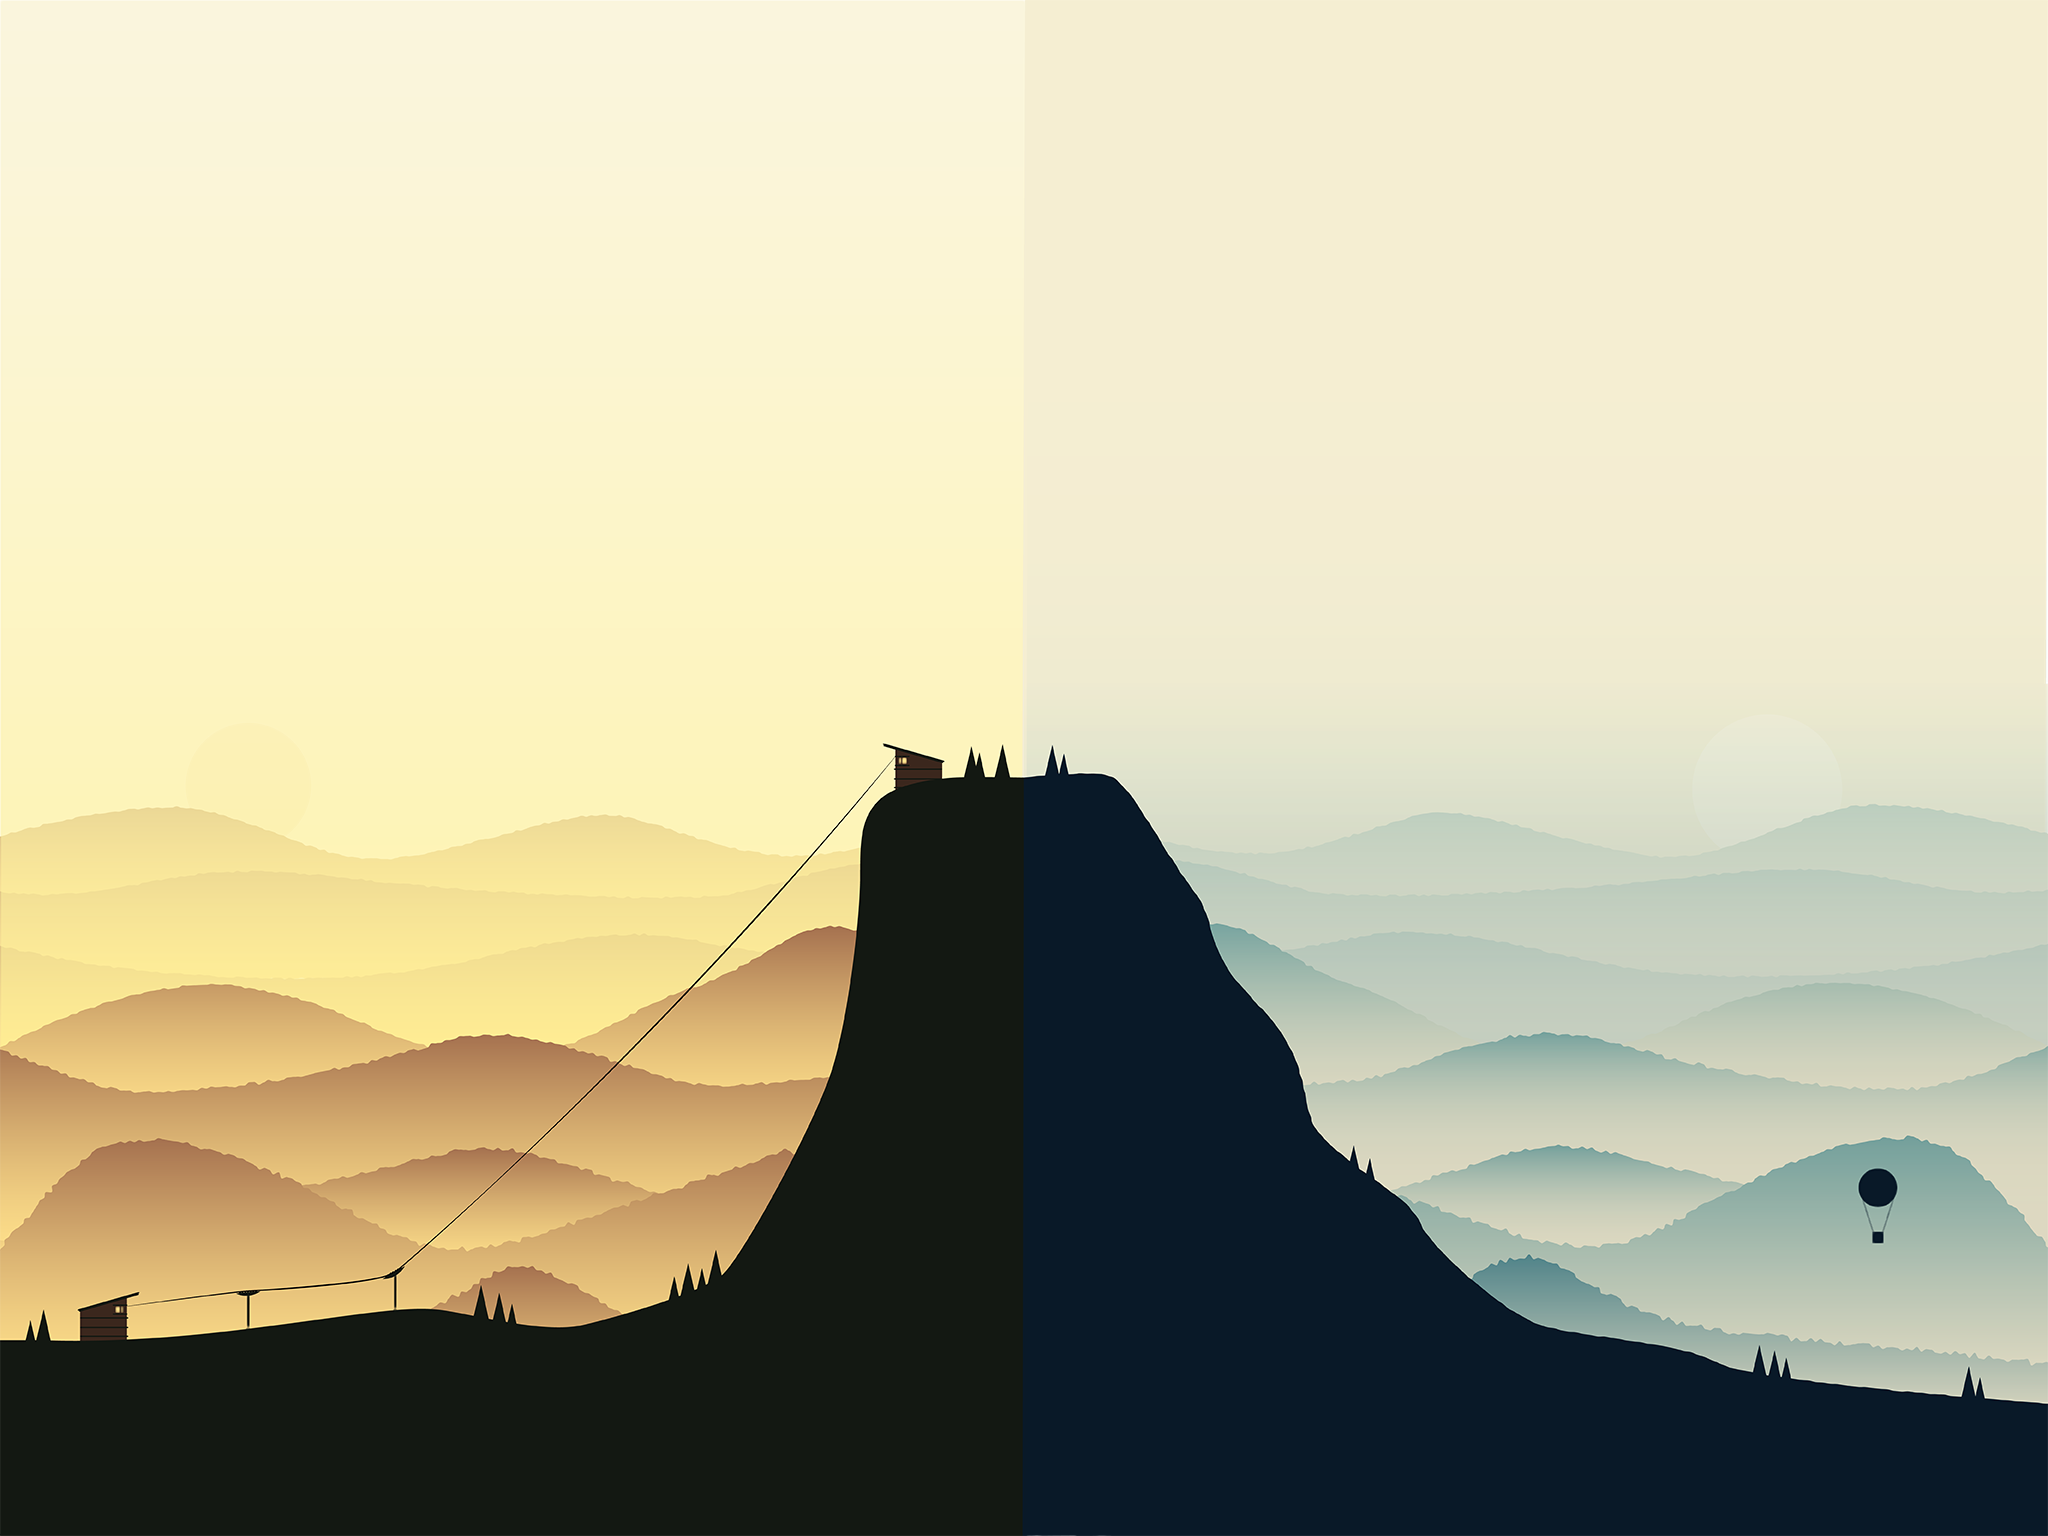
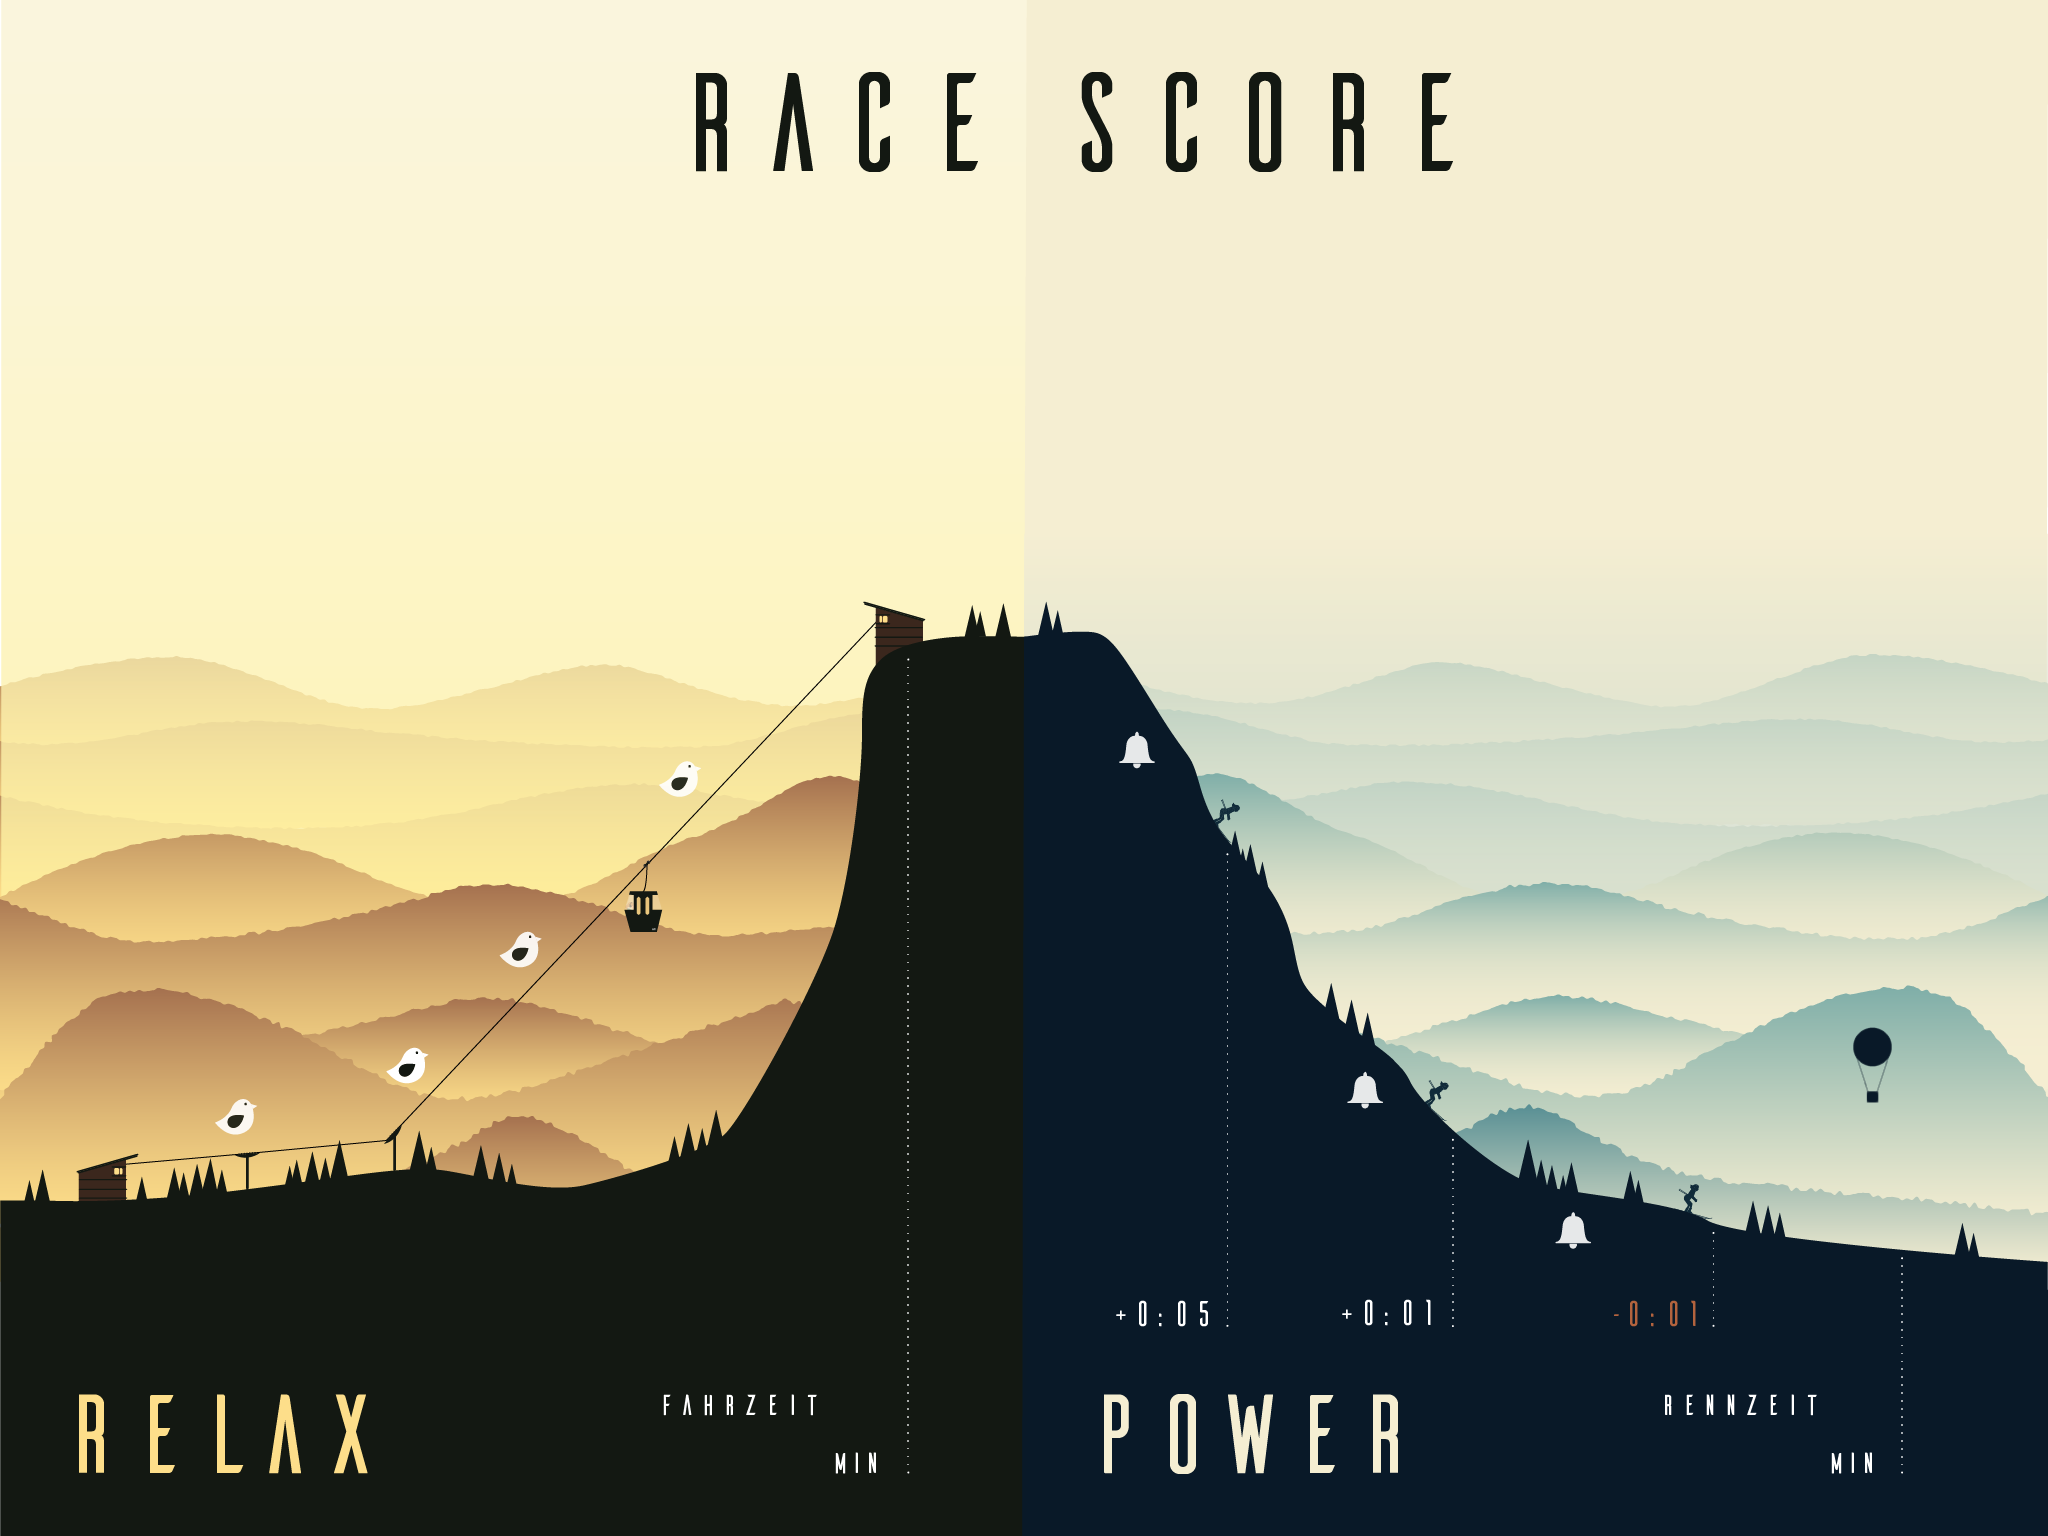
changed background

diff --git a/public/neuroracer/dashboard.js b/public/neuroracer/dashboard.js
@@ -14,10 +14,10 @@ function drawDashboardVis() {
 	translate(100, 0);
 	//RECORD SECTION
 
-	fill('black');
-	textSize(H1);
+	//fill('black');
+	//textSize(H1);
 	textFont(myfont);
-	text('PRERACE', 0, 0);
+	//text('PRERACE', 0, 0);
 
 	textSize(H2)
 	fill(TEXTFILL);
@@ -56,7 +56,7 @@ function drawDashboardVis() {
 
 	fill('white');
 	textSize(30);
-	text(timeresult, 0, 625);	
+	text(timeresult, 227, 636.5);	
 
 
 	//race ranking
@@ -64,9 +64,9 @@ function drawDashboardVis() {
 	translate(512, 0);
 	//RECORD SECTION
 
-	fill('black');
+	/*fill('black');
 	textSize(H1);
-	text('RACE', 0, 0);
+	text('RACE', 0, 0);*/
 
 	textSize(H2)
 	fill(TEXTFILL);
@@ -105,7 +105,7 @@ function drawDashboardVis() {
 
 	fill('white');
 	textSize(30);
-	text('1:40', 0, 625);
+	text('01:40', 215, 636.5);
 
 	noLoop();
 

diff --git a/public/neuroracer/sketch.js b/public/neuroracer/sketch.js
@@ -125,10 +125,10 @@ function setup() {
   createCanvas(1024, 768);
 
   //use this line to use dummy data (ideal for development)
- // muse = museData().dummyData();
+ muse = museData().dummyData();
 
   //use this line to make a real connection to muse
-  muse = museData().connection(getHost());
+  //muse = museData().connection(getHost());
 
   //only alpha_relative is looked at in this example
   muse.listenTo('/muse/elements/alpha_relative');
